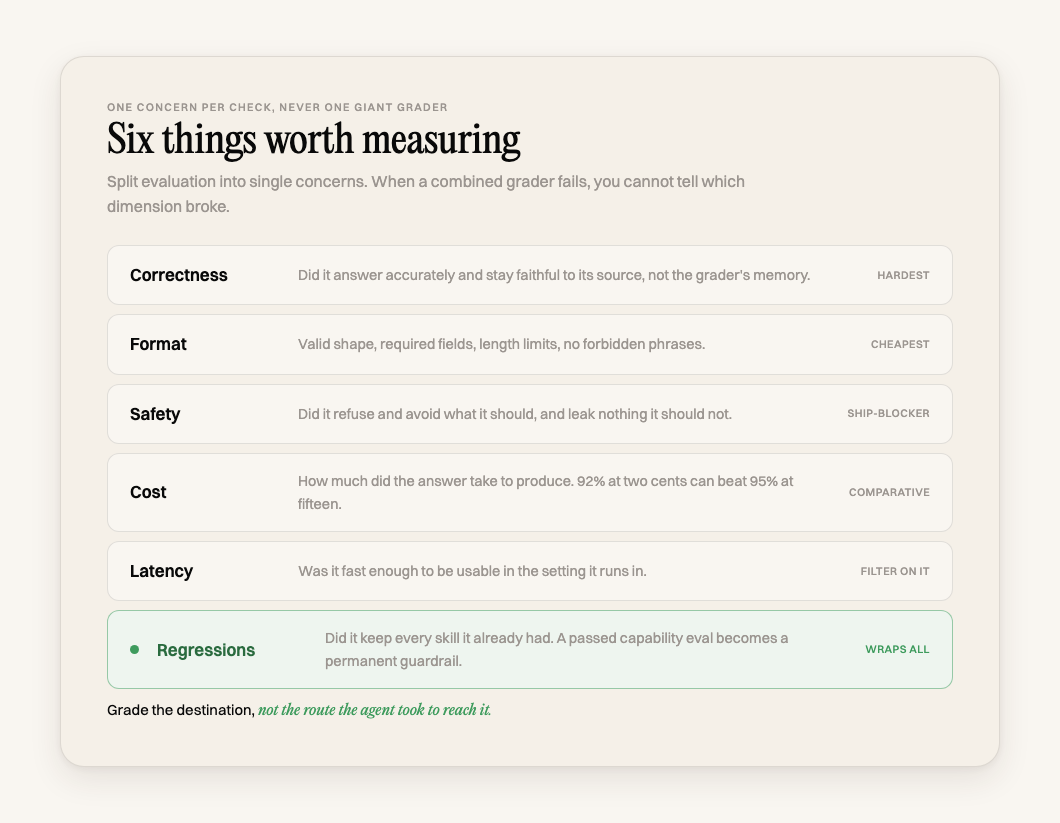
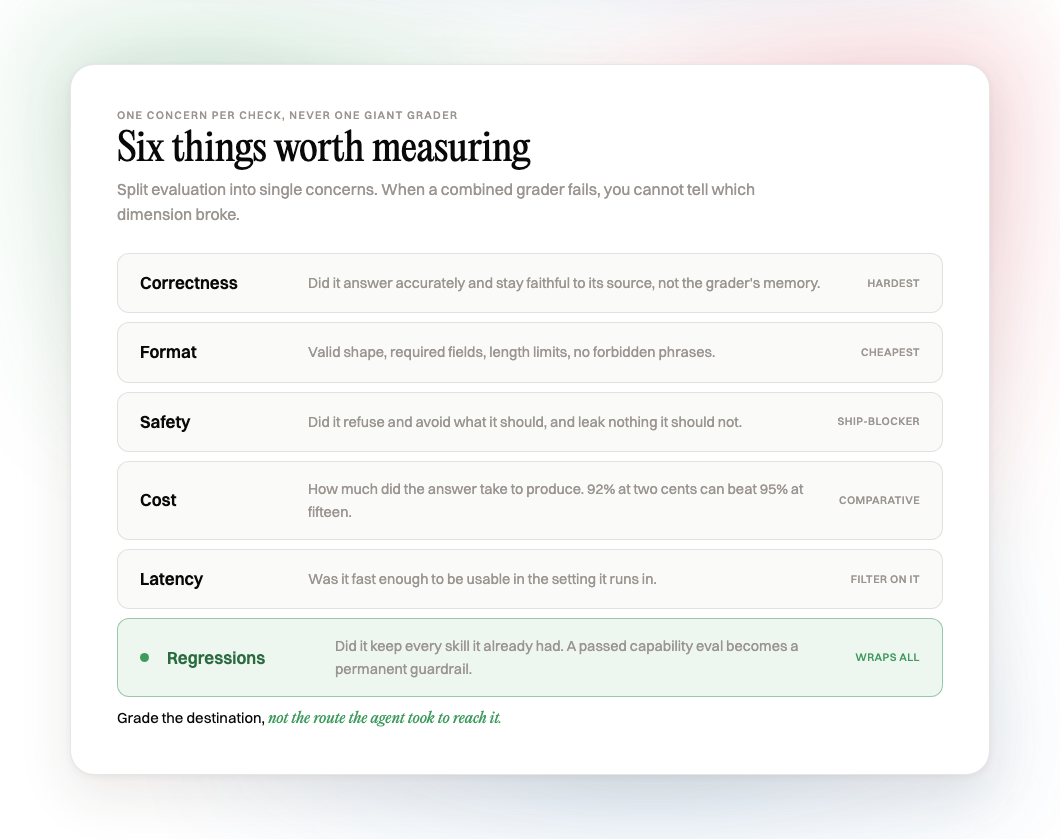
Archive diagram-categories.png from content: Tone Fix evals article, nxtphase Articles variant visuals (white, red, blue, fog): diagram-categories.png

diff --git a/projects/content/INDEX.md b/projects/content/INDEX.md
@@ -282,3 +282,4 @@
 | 2026-06-13 | reports | [draft.html](reports/draft.html) | Tone Fix Broke the Agent (evals, nxtphase-branded visuals, plugs From Vibe to Production): draft.html | /Users/marcokotrotsos/PERSONAL/Content/drafts/evals-are-the-engineering/draft.html |
 | 2026-06-13 | images | [hero.png](images/hero.png) | Tone Fix evals article, nxtphase Articles variant visuals (white, red, blue, fog): hero.png | /Users/marcokotrotsos/PERSONAL/Content/drafts/evals-are-the-engineering/hero.png |
 | 2026-06-13 | images | [screenshot-evalrun.png](images/screenshot-evalrun.png) | Tone Fix evals article, nxtphase Articles variant visuals (white, red, blue, fog): screenshot-evalrun.png | /Users/marcokotrotsos/PERSONAL/Content/drafts/evals-are-the-engineering/screenshot-evalrun.png |
+| 2026-06-13 | images | [diagram-categories.png](images/diagram-categories.png) | Tone Fix evals article, nxtphase Articles variant visuals (white, red, blue, fog): diagram-categories.png | /Users/marcokotrotsos/PERSONAL/Content/drafts/evals-are-the-engineering/diagram-categories.png |

diff --git a/INDEX.md b/INDEX.md
@@ -541,3 +541,4 @@
 | 2026-06-13 | content | reports | [draft.html](projects/content/reports/draft.html) | Tone Fix Broke the Agent (evals, nxtphase-branded visuals, plugs From Vibe to Production): draft.html |
 | 2026-06-13 | content | images | [hero.png](projects/content/images/hero.png) | Tone Fix evals article, nxtphase Articles variant visuals (white, red, blue, fog): hero.png |
 | 2026-06-13 | content | images | [screenshot-evalrun.png](projects/content/images/screenshot-evalrun.png) | Tone Fix evals article, nxtphase Articles variant visuals (white, red, blue, fog): screenshot-evalrun.png |
+| 2026-06-13 | content | images | [diagram-categories.png](projects/content/images/diagram-categories.png) | Tone Fix evals article, nxtphase Articles variant visuals (white, red, blue, fog): diagram-categories.png |
